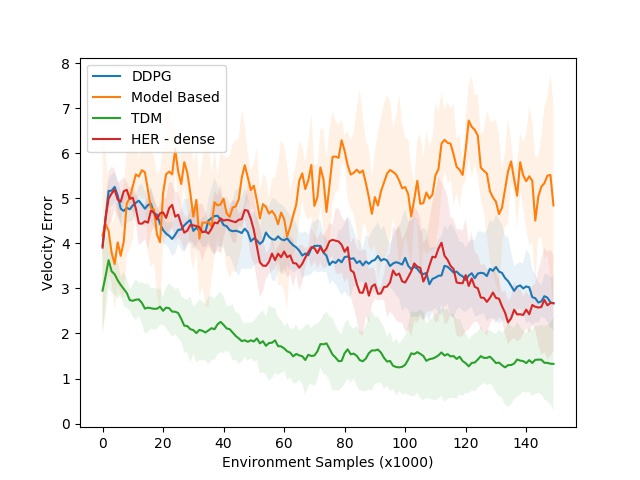
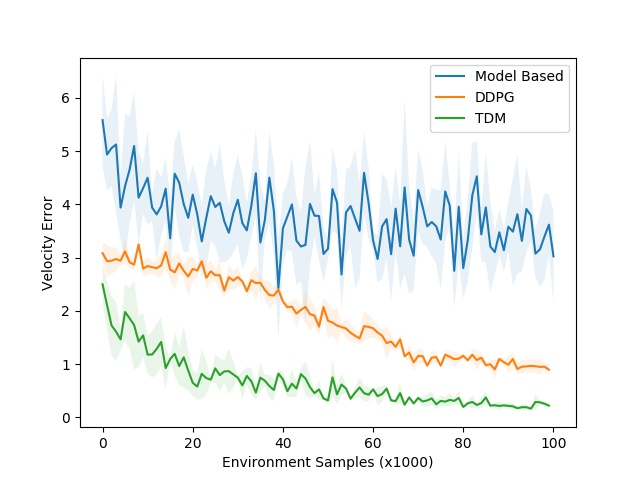
update cheetah plots

diff --git a/experiments/state_distance/iclr2018/cheetah_results.py b/experiments/state_distance/iclr2018/cheetah_results.py
@@ -1,65 +1,29 @@
 from railrl.misc.data_processing import Experiment
 import matplotlib.pyplot as plt
 import numpy as np
-from scipy.ndimage.filters import convolve1d
 
-her_path = "/home/vitchyr/git/rllab-rail/railrl/data/papers/iclr2018/pusher2d" \
-           "/her-cheetah/cheetah_curve.npy"
-her_data = np.load(her_path)
+mb_trials = Experiment(
+    "/home/vitchyr/git/railrl/data/doodads3/12-13-abhishek-mb-cheetah-max-vel5/"
+).get_trials()
+ddpg_trials = Experiment(
+    "/home/vitchyr/git/railrl/data/doodads3/12-12-tdm-half-cheetah-short-epoch-nupo-sweep/"
+).get_trials({
+    'exp_id': '5',
+    'algorithm': 'DDPG',
+})
+tdm_trials = Experiment(
+    "/home/vitchyr/git/railrl/data/doodads3/12-12-tdm-half-cheetah-short-epoch-nupo-sweep/"
+).get_trials({
+    'exp_id': '8',
+    'algorithm': 'DDPG-TDM',
+})
 
-ddpg_path = "/home/vitchyr/git/rllab-rail/railrl/data/doodads3/10-26-ddpg-half-cheetah/"
-ddpg_criteria = {
-    'algo_params.num_updates_per_env_step': 5,
-    'algo_params.reward_scale': 1,
-    'algo_params.tau': 0.001,
-}
-# DDPG policy: /home/vitchyr/git/rllab-rail/railrl/experiments/state_distance/iclr2018/cheetah_results.py
-mb_path = "/home/vitchyr/git/rllab-rail/railrl/data/doodads3/10-26-abhishek-mb-cheetah-target-reset/"
-mb_criteria = None
-# our_path = "/home/vitchyr/git/rllab-rail/railrl/data/local/10-26-sdql-cheetah-xvel/10-26-sdql-cheetah-xvel_2017_10_26_16_11_42_0000--s-5011/"
-# our_criteria = None
-our_path = "/home/vitchyr/git/rllab-rail/railrl/data/doodads3/10-27-get-results-half-cheetah-h100/"
-our_criteria = {
-    'algo_params.num_updates_per_env_step': 25,
-    'epoch_discount_schedule_params.value': 10,
-}
-her_dense_path = "/home/vitchyr/git/rllab-rail/railrl/data/doodads3/10-27-her-baseline-shaped-rewards-no-clipping-300-300-right-discount-and-tau/"
-her_dense_criteria = {
-    'algo_params.num_updates_per_env_step': 5,
-    'algo_params.reward_scale': 10,
-    'env_class.$class':
-        "railrl.envs.multitask.half_cheetah.GoalXVelHalfCheetah"
-}
-
-ddpg_exp = Experiment(ddpg_path)
-mb_exp = Experiment(mb_path)
-our_exp = Experiment(our_path)
-her_dense_exp = Experiment(her_dense_path)
-
-ddpg_trials = ddpg_exp.get_trials(ddpg_criteria)
-mb_trials = mb_exp.get_trials(mb_criteria)
-our_trials = our_exp.get_trials(our_criteria)
-her_dense_trials = her_dense_exp.get_trials(her_dense_criteria)
-
-print(len(ddpg_trials))
-print(len(mb_trials))
-print(len(our_trials))
 MAX_ITERS = 150
-
-def smooth(data):
-    box = np.ones(5) / 5
-    new_data = []
-    for d in data:
-        # new_data.append(np.convolve(d, box, mode='same'))
-        new_data.append(convolve1d(d, box, mode='constant', cval=d[-1]))
-    return np.vstack(new_data)
-
 plt.figure()
 for trials, name, key in [
-    (ddpg_trials, 'DDPG', 'Final_xvel_errors_Mean'),
     (mb_trials, 'Model Based', 'Final_xvel_errors_Mean'),
-    (our_trials, 'TDM', 'test_Final_xvel_errors_Mean'),
-    (her_dense_trials, 'HER - dense', 'test_Final_xvel_errors_Mean'),
+    (ddpg_trials, 'DDPG', 'Final_xvel_errors_Mean'),
+    (tdm_trials, 'TDM', 'Final_xvel_errors_Mean'),
 ]:
     all_values = []
     min_len = np.inf
@@ -76,23 +40,13 @@ for trials, name, key in [
     ])
     costs = costs[:, :min(costs.shape[1], MAX_ITERS)]
     # if name != 'TDM':
-    costs = smooth(costs)
+    # costs = smooth(costs)
     mean = np.mean(costs, axis=0)
     std = np.std(costs, axis=0)
     epochs = np.arange(0, len(costs[0]))
     plt.fill_between(epochs, mean - std, mean + std, alpha=0.1)
     plt.plot(epochs, mean, label=name)
 
-
-# Stop at 200 epochs
-her_data = her_data[:, :100]
-her_mean = np.mean(her_data, axis=0)
-her_std = np.mean(her_data, axis=0)
-epochs = 2 * np.arange(0, len(her_mean))
-# plt.fill_between(epochs, her_mean - her_std, her_mean + her_std, alpha=0.1)
-# plt.plot(epochs, her_mean, label="HER")
-# for run in her_data:
-#     plt.plot(epochs, run, label="HER")
 
 # plt.xscale('log')
 plt.xlabel("Environment Samples (x1000)")
